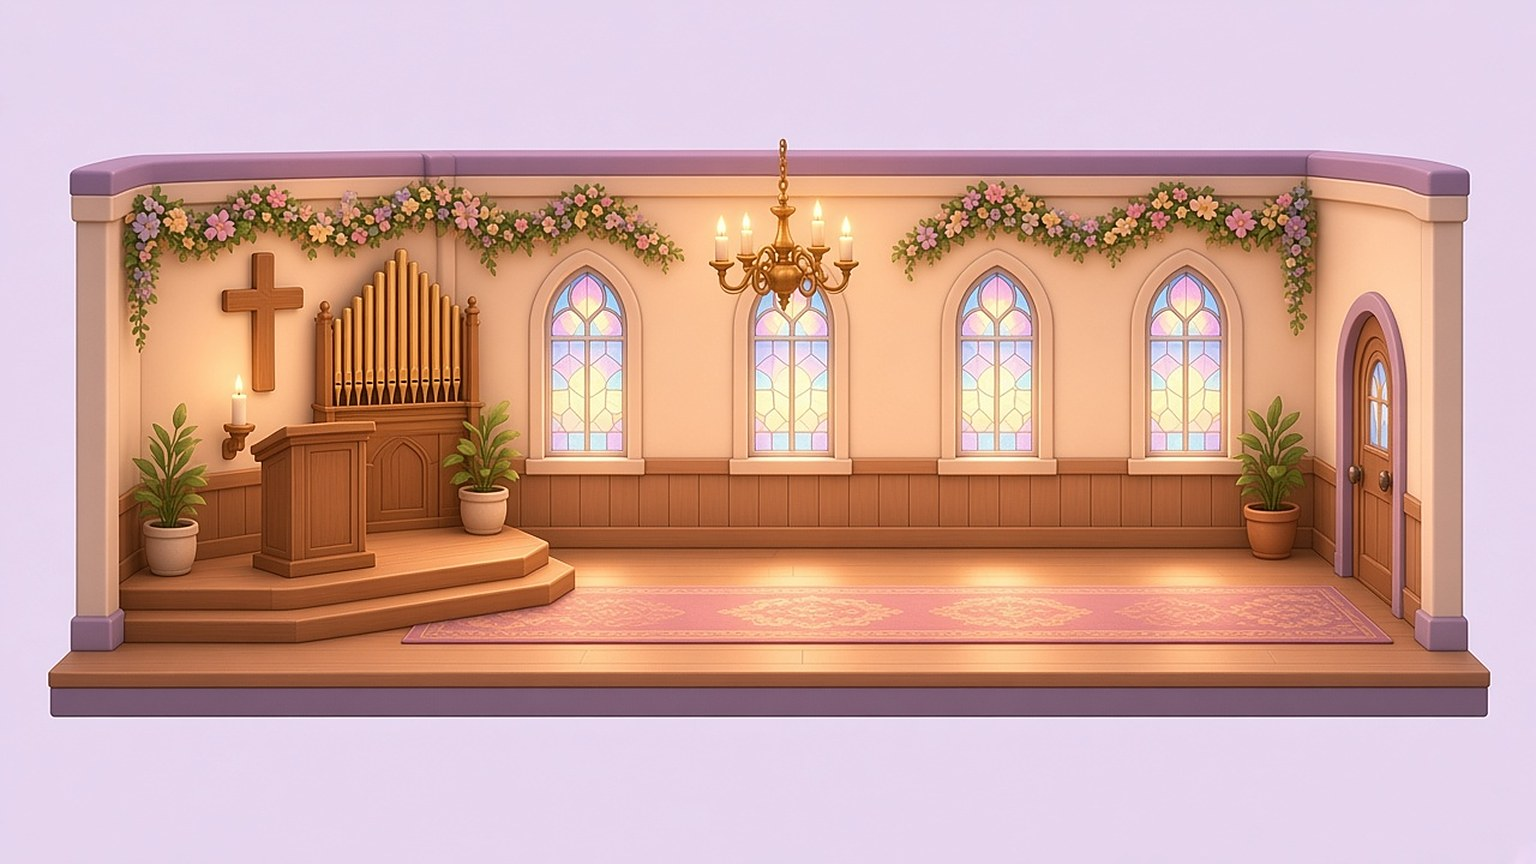
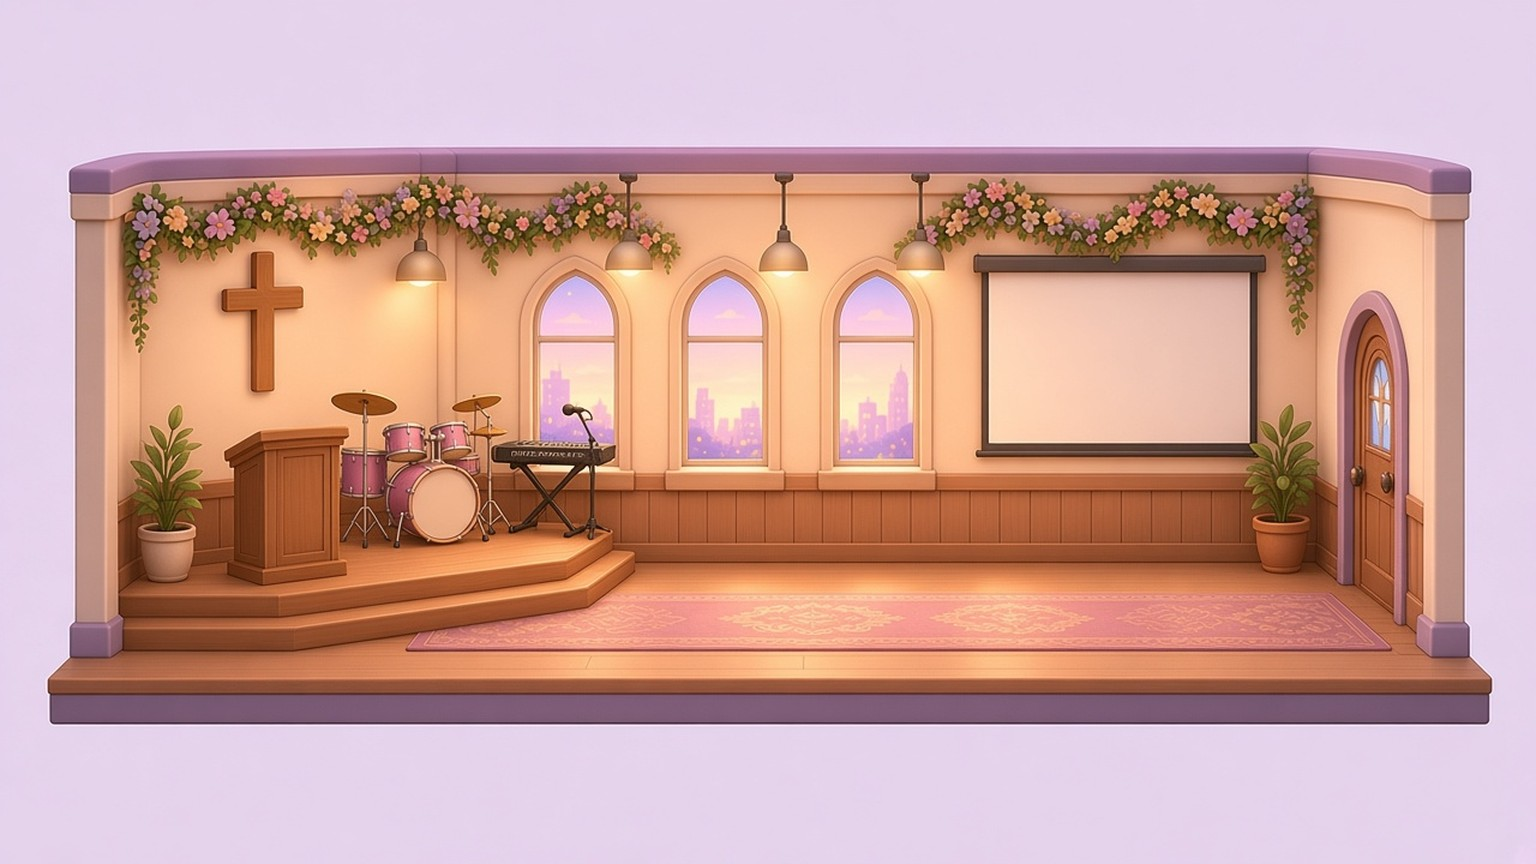
Protestant interior: clear city windows, praise stage, projector, choir seats

Changed region(s): [[0.0312, 0.1562, 0.9688, 0.8438]]

diff --git a/js/main.js b/js/main.js
@@ -158,7 +158,7 @@ function goFloor(to) { const I = cfg.interior, from = inside.floor; inside.floor
   if (to === '1F') { const st = (I.stairs1 || []).find(s => s.to === from) || I.spawn; player.x = st.x - 70; player.y = st.y + 20; if (!inside.walkable(player.x, player.y)) { player.x = I.spawn.x; player.y = I.spawn.y; } }
   else { const f = inside.F(); player.x = f.spawn.x; player.y = f.spawn.y; }
   snapCam(); try { window.P2?.sfx?.('step'); } catch { } toast(`🪜 ${to === '1F' ? '1층 본당' : inside.F().name}(으)로 이동했어요`); }
-const SPOTMSG = { organ: '🎹 파이프 오르간이 웅장하게 울려요 (찬양 모드는 🎵 버튼)', choir: '🎶 성가대석이에요. 함께 찬양해요!', cafe: '☕ 따뜻한 차 한 잔 하며 이웃과 이야기해요', prayer: '🕯 조용히 기도하는 방이에요. 잠시 마음을 모아요' };
+const SPOTMSG = { organ: '🎹 찬양팀 키보드와 드럼이 준비돼 있어요 (찬양 모드는 🎵 버튼)', choir: '🎶 성가대석이에요. 함께 찬양해요!', cafe: '☕ 따뜻한 차 한 잔 하며 이웃과 이야기해요', prayer: '🕯 조용히 기도하는 방이에요. 잠시 마음을 모아요' };
 function spotAct(sp) { if (sp.t === 'choir' || sp.t === 'organ') { startWorship(); return; } if (sp.t === 'prayer') emote('pray'); toast(SPOTMSG[sp.t] || sp.label); }
 window.__goFloor = goFloor;
 const cur = () => scene === 'field' ? world : inside;
